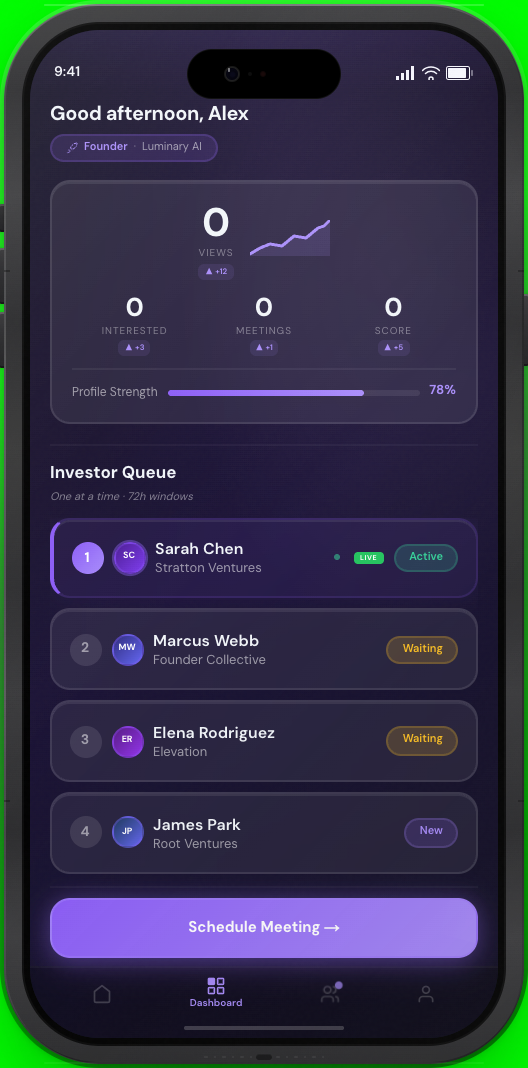
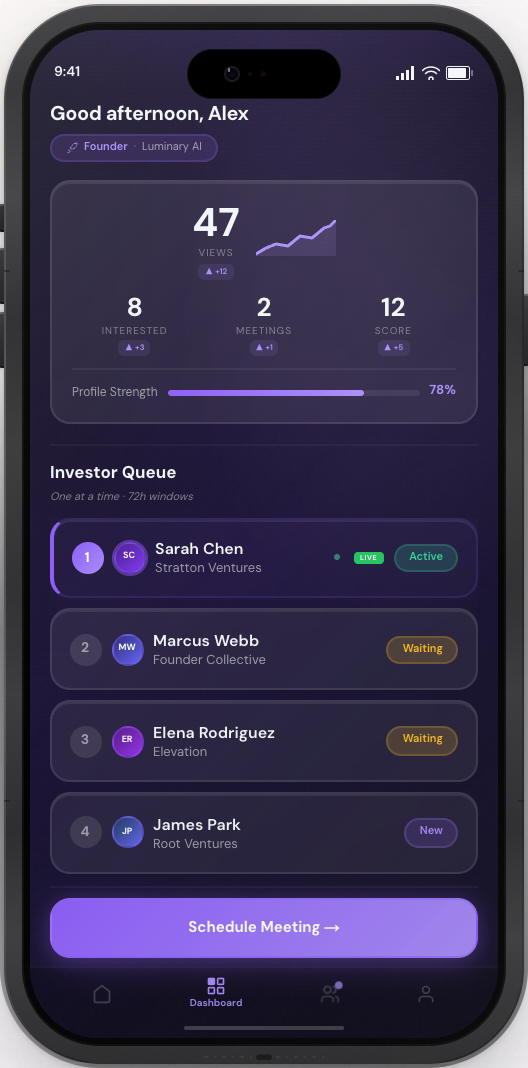
Fix phone exports: static mode for final values + true alpha transparency
Add staticMode prop to InvestorScreen, FounderScreen, useCountUp, and
AnimatedBar so stats render at final values immediately without animation.
Export page passes ?static=true to skip all animations. Puppeteer script
now forces all non-phone backgrounds transparent before screenshotting,
producing clean transparent PNGs with alpha channel.

diff --git a/src/components/IPhoneMockups.tsx b/src/components/IPhoneMockups.tsx
@@ -133,18 +133,17 @@ function NotificationDot({ color }: { color: string }) {
 }
 
 /* ---- Animated Progress Bar ---- */
-function AnimatedBar({ targetWidth, color, isVisible }: { targetWidth: string; color: string; isVisible: boolean }) {
-  const [width, setWidth] = useState("0%");
+function AnimatedBar({ targetWidth, color, isVisible, staticMode }: { targetWidth: string; color: string; isVisible: boolean; staticMode?: boolean }) {
+  const [width, setWidth] = useState(staticMode ? targetWidth : "0%");
   const hasAnimated = useRef(false);
 
   useEffect(() => {
-    if (isVisible && !hasAnimated.current) {
-      hasAnimated.current = true;
-      requestAnimationFrame(() => {
-        requestAnimationFrame(() => setWidth(targetWidth));
-      });
-    }
-  }, [isVisible, targetWidth]);
+    if (staticMode || !isVisible || hasAnimated.current) return;
+    hasAnimated.current = true;
+    requestAnimationFrame(() => {
+      requestAnimationFrame(() => setWidth(targetWidth));
+    });
+  }, [isVisible, targetWidth, staticMode]);
 
   return (
     <div style={{
@@ -152,7 +151,7 @@ function AnimatedBar({ targetWidth, color, isVisible }: { targetWidth: string; c
       height: "100%",
       borderRadius: "9999px",
       background: color,
-      transition: "width 1.2s cubic-bezier(0.16, 1, 0.3, 1)",
+      transition: staticMode ? "none" : "width 1.2s cubic-bezier(0.16, 1, 0.3, 1)",
     }} />
   );
 }
@@ -212,13 +211,13 @@ function TrendPill({ value, color = "#34D399" }: { value: string; color?: string
 }
 
 /* ---- Animated Counter Hook ---- */
-function useCountUp(target: number, duration: number, shouldStart: boolean) {
-  const [value, setValue] = useState(0);
+function useCountUp(target: number, duration: number, shouldStart: boolean, staticMode?: boolean) {
+  const [value, setValue] = useState(staticMode ? target : 0);
   const hasRun = useRef(false);
   const rafRef = useRef<number>(0);
 
   useEffect(() => {
-    if (!shouldStart || hasRun.current) return;
+    if (staticMode || !shouldStart || hasRun.current) return;
     hasRun.current = true;
 
     const startTime = performance.now();
@@ -235,7 +234,7 @@ function useCountUp(target: number, duration: number, shouldStart: boolean) {
     rafRef.current = requestAnimationFrame(step);
 
     return () => cancelAnimationFrame(rafRef.current);
-  }, [shouldStart, target, duration]);
+  }, [shouldStart, target, duration, staticMode]);
 
   return value;
 }
@@ -249,7 +248,7 @@ const glassCard = {
 };
 
 /* ---- Mini Dashboard Content (Investor - Dark Mode Teal) ---- */
-export function InvestorScreen({ isVisible }: { isVisible: boolean }) {
+export function InvestorScreen({ isVisible, staticMode }: { isVisible: boolean; staticMode?: boolean }) {
   const font = "var(--font-dm-sans), sans-serif";
   const [feedIndex, setFeedIndex] = useState(0);
   const [showCurrent, setShowCurrent] = useState(true);
@@ -291,10 +290,10 @@ export function InvestorScreen({ isVisible }: { isVisible: boolean }) {
   ];
 
   // Count-up stats
-  const stat14 = useCountUp(14, 1500, isVisible);
-  const stat5 = useCountUp(5, 1500, isVisible);
-  const stat3 = useCountUp(3, 1500, isVisible);
-  const stat2 = useCountUp(2, 1500, isVisible);
+  const stat14 = useCountUp(14, 1500, isVisible, staticMode);
+  const stat5 = useCountUp(5, 1500, isVisible, staticMode);
+  const stat3 = useCountUp(3, 1500, isVisible, staticMode);
+  const stat2 = useCountUp(2, 1500, isVisible, staticMode);
   const statNums = [stat14, stat5, stat3, stat2];
 
   return (
@@ -389,7 +388,7 @@ export function InvestorScreen({ isVisible }: { isVisible: boolean }) {
         <div style={{ display: "flex", alignItems: "center", gap: "5px", marginTop: "6px", paddingTop: "6px", borderTop: "1px solid rgba(255,255,255,0.06)" }}>
           <span style={{ fontSize: "6px", color: "rgba(255,255,255,0.55)", fontFamily: font, whiteSpace: "nowrap" }}>Engagement</span>
           <div style={{ flex: 1, height: "3px", borderRadius: "9999px", background: "rgba(255,255,255,0.08)", overflow: "hidden" }}>
-            <AnimatedBar targetWidth="84%" color="linear-gradient(90deg, #06B6D4, #22D3EE)" isVisible={isVisible} />
+            <AnimatedBar targetWidth="84%" color="linear-gradient(90deg, #06B6D4, #22D3EE)" isVisible={isVisible} staticMode={staticMode} />
           </div>
           <span style={{ fontSize: "6.5px", color: "#22D3EE", fontWeight: 700, fontFamily: font }}>84%</span>
         </div>
@@ -553,7 +552,7 @@ export function InvestorScreen({ isVisible }: { isVisible: boolean }) {
 }
 
 /* ---- Mini Dashboard Content (Founder - Dark Mode Violet) ---- */
-export function FounderScreen({ isVisible }: { isVisible: boolean }) {
+export function FounderScreen({ isVisible, staticMode }: { isVisible: boolean; staticMode?: boolean }) {
   const font = "var(--font-dm-sans), sans-serif";
   const [statsPulsed, setStatsPulsed] = useState(false);
 
@@ -565,10 +564,10 @@ export function FounderScreen({ isVisible }: { isVisible: boolean }) {
   }, [isVisible, statsPulsed]);
 
   // Count-up stats
-  const stat47 = useCountUp(47, 1500, isVisible);
-  const stat8 = useCountUp(8, 1500, isVisible);
-  const stat2 = useCountUp(2, 1500, isVisible);
-  const stat12 = useCountUp(12, 1500, isVisible);
+  const stat47 = useCountUp(47, 1500, isVisible, staticMode);
+  const stat8 = useCountUp(8, 1500, isVisible, staticMode);
+  const stat2 = useCountUp(2, 1500, isVisible, staticMode);
+  const stat12 = useCountUp(12, 1500, isVisible, staticMode);
   const statNums = [stat47, stat8, stat2, stat12];
 
   return (
@@ -663,7 +662,7 @@ export function FounderScreen({ isVisible }: { isVisible: boolean }) {
         <div style={{ display: "flex", alignItems: "center", gap: "5px", marginTop: "6px", paddingTop: "6px", borderTop: "1px solid rgba(255,255,255,0.06)" }}>
           <span style={{ fontSize: "6px", color: "rgba(255,255,255,0.55)", fontFamily: font, whiteSpace: "nowrap" }}>Profile Strength</span>
           <div style={{ flex: 1, height: "3px", borderRadius: "9999px", background: "rgba(255,255,255,0.08)", overflow: "hidden" }}>
-            <AnimatedBar targetWidth="78%" color="linear-gradient(90deg, #8B5CF6, #A78BFA)" isVisible={isVisible} />
+            <AnimatedBar targetWidth="78%" color="linear-gradient(90deg, #8B5CF6, #A78BFA)" isVisible={isVisible} staticMode={staticMode} />
           </div>
           <span style={{ fontSize: "6.5px", color: "#A78BFA", fontWeight: 700, fontFamily: font }}>78%</span>
         </div>

diff --git a/src/app/export-phones/page.tsx b/src/app/export-phones/page.tsx
@@ -7,6 +7,7 @@ import { PhoneBody, InvestorScreen, FounderScreen } from "@/components/IPhoneMoc
 function ExportContent() {
   const params = useSearchParams();
   const phone = params.get("phone");
+  const staticMode = params.get("static") === "true";
 
   if (phone === "investor") {
     return (
@@ -16,11 +17,11 @@ function ExportContent() {
           display: "flex",
           alignItems: "center",
           justifyContent: "center",
-          background: "#00FF00",
+          background: "transparent",
         }}
       >
         <PhoneBody hovered={false}>
-          <InvestorScreen isVisible={true} />
+          <InvestorScreen isVisible={true} staticMode={staticMode} />
         </PhoneBody>
       </div>
     );
@@ -34,11 +35,11 @@ function ExportContent() {
           display: "flex",
           alignItems: "center",
           justifyContent: "center",
-          background: "#00FF00",
+          background: "transparent",
         }}
       >
         <PhoneBody hovered={false}>
-          <FounderScreen isVisible={true} />
+          <FounderScreen isVisible={true} staticMode={staticMode} />
         </PhoneBody>
       </div>
     );
@@ -60,13 +61,13 @@ function ExportContent() {
     >
       <h1 style={{ fontSize: "24px", fontWeight: 600 }}>Export Phones</h1>
       <a
-        href="/export-phones?phone=investor"
+        href="/export-phones?phone=investor&static=true"
         style={{ color: "#7C5CFC", fontSize: "18px" }}
       >
         Investor Phone
       </a>
       <a
-        href="/export-phones?phone=founder"
+        href="/export-phones?phone=founder&static=true"
         style={{ color: "#7C5CFC", fontSize: "18px" }}
       >
         Founder Phone
@@ -77,7 +78,7 @@ function ExportContent() {
 
 export default function ExportPhonesPage() {
   return (
-    <Suspense fallback={<div style={{ background: "#00FF00", minHeight: "100vh" }} />}>
+    <Suspense fallback={<div style={{ background: "transparent", minHeight: "100vh" }} />}>
       <ExportContent />
     </Suspense>
   );
